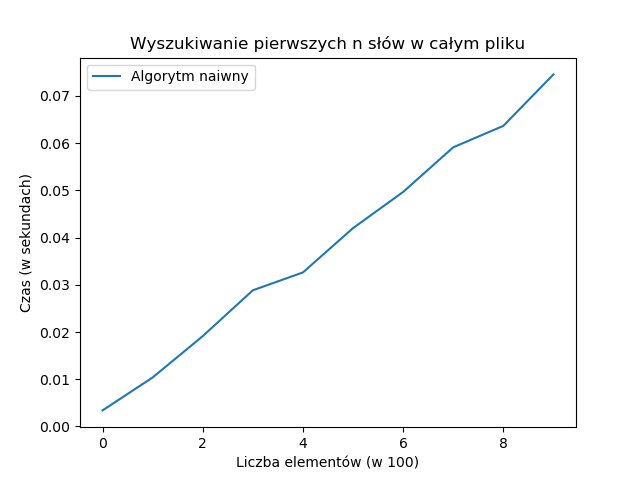
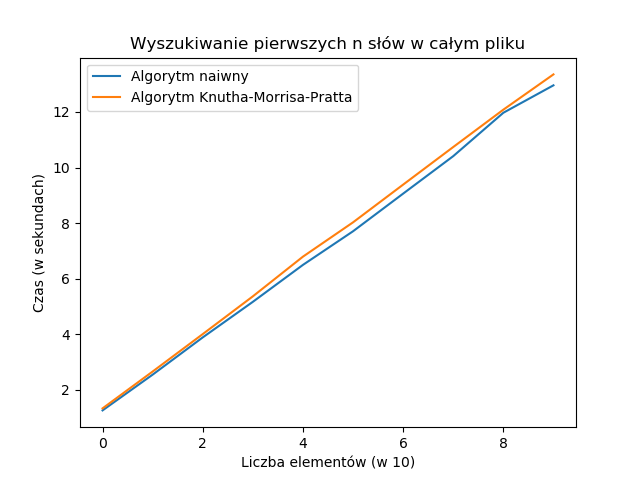
Algorytm KMP, poprawki, testy

diff --git a/Lab4/test_stringSearchKMP.py b/Lab4/test_stringSearchKMP.py
@@ -1,0 +1,95 @@
+import stringSearchKMP
+import stringSearchN
+import random
+
+
+def test_typicalKMP():
+    text = "abcbabc"
+    string = "cba"
+    result = stringSearchKMP.find(string, text)
+    assert(result == [2])
+
+
+def test_multipleMatchesKMP():
+    text = "abcbabc"
+    string = "ab"
+    result = stringSearchKMP.find(string, text)
+    assert(result == [0, 4])
+
+
+def test_emptyStringKMP():
+    text = "abcbabc"
+    string = ""
+    result = stringSearchKMP.find(string, text)
+    assert(result == -1)
+
+
+def test_emptyTextKMP():
+    text = ""
+    string = "cba"
+    result = stringSearchKMP.find(string, text)
+    assert(result == -1)
+
+
+def test_bothEmptyKMP():
+    text = ""
+    string = ""
+    result = stringSearchKMP.find(string, text)
+    assert(result == -1)
+
+
+def test_longerStringKMP():
+    text = "abcbabc"
+    string = "cbaaaaaaaaa"
+    result = stringSearchKMP.find(string, text)
+    assert(result == -1)
+
+
+def test_textIsStringKMP():
+    text = "abcbabc"
+    string = "abcbabc"
+    result = stringSearchKMP.find(string, text)
+    assert(result == [0])
+
+
+def test_notInTextKMP():
+    text = "abcbabc"
+    string = "ddd"
+    result = stringSearchKMP.find(string, text)
+    assert(result == -1)
+
+
+def test_randomKMP1():
+    string = ""
+    text = ""
+    for i in range(10):
+        string += random.choice(['a', 'b'])
+    for i in range(100):
+        text += random.choice(['a', 'b'])
+    expected = stringSearchN.find(string, text)
+    result = stringSearchKMP.find(string, text)
+    assert(result == expected)
+
+
+def test_randomKMP2():
+    string = ""
+    text = ""
+    for i in range(80):
+        string += random.choice(['a', 'b'])
+    for i in range(100):
+        text += random.choice(['a', 'b'])
+    expected = stringSearchN.find(string, text)
+    result = stringSearchKMP.find(string, text)
+    assert(result == expected)
+
+
+def test_randomKMP3():
+    string = ""
+    text = ""
+    for i in range(2):
+        string += random.choice(['a', 'b'])
+    for i in range(100):
+        text += random.choice(['a', 'b'])
+    expected = stringSearchN.find(string, text)
+    result = stringSearchKMP.find(string, text)
+    assert(result == expected)

diff --git a/Lab4/plotting.py b/Lab4/plotting.py
@@ -1,4 +1,5 @@
 import stringSearchN
+import stringSearchKMP
 import time
 import matplotlib.pyplot as plt
 
@@ -23,7 +24,7 @@ def testNaive():
     times = []
     text = readWholeFile('pan-tadeusz.txt')
     for i in range(1, 11):
-        strings = readFirstWords('pan-tadeusz.txt', i * 100)
+        strings = readFirstWords('pan-tadeusz.txt', i * 10)
         start = time.perf_counter()
         for string in strings:
             stringSearchN.find(string, text)
@@ -32,11 +33,26 @@ def testNaive():
     return times
 
 
+def testKMP():
+    times = []
+    text = readWholeFile('pan-tadeusz.txt')
+    for i in range(1, 11):
+        strings = readFirstWords('pan-tadeusz.txt', i * 10)
+        start = time.perf_counter()
+        for string in strings:
+            stringSearchKMP.find(string, text)
+        stop = time.perf_counter()
+        times.append(stop-start)
+    return times
+
+
 if __name__ == "__main__":
     naiveTimes = testNaive()
+    KMPTimes = testKMP()
     plt.plot(naiveTimes)
+    plt.plot(KMPTimes)
     plt.title("Wyszukiwanie pierwszych n słów w całym pliku")
-    plt.xlabel("Liczba elementów (w 100)")
+    plt.xlabel("Liczba elementów (w 10)")
     plt.ylabel("Czas (w sekundach)")
-    plt.legend(["Algorytm naiwny"])
+    plt.legend(["Algorytm naiwny", "Algorytm Knutha-Morrisa-Pratta"])
     plt.savefig("stringPlot.png")

diff --git a/Lab4/stringSearchKMP.py b/Lab4/stringSearchKMP.py
@@ -1,0 +1,44 @@
+def find(string, text):
+    if string == "":
+        return -1
+    if text == "":
+        return -1
+    if len(string) > len(text):
+        return -1
+    results = []
+    longest = [0] * len(string)
+    j = 0
+    makeArray(string, longest)
+    i = 0
+    while i < len(text):
+        if string[j] == text[i]:
+            j += 1
+            i += 1
+        if j == len(string):
+            results.append(i - j)
+            j = longest[j - 1]
+        elif i < len(text) and string[j] != text[i]:
+            if j != 0:
+                j = longest[j - 1]
+            else:
+                i += 1
+    if len(results) == 0:
+        return -1
+    else:
+        return results
+
+
+def makeArray(string, longest):
+    length = 0
+    i = 1
+    while i < len(string):
+        if string[i] == string[length]:
+            length += 1
+            longest[i] = length
+            i += 1
+        else:
+            if length != 0:
+                length = longest[length - 1]
+            else:
+                longest[i] = 0
+                i += 1

diff --git a/Lab4/test_stringSearchN.py b/Lab4/test_stringSearchN.py
@@ -5,7 +5,14 @@ def test_typicalN():
     text = "abcbabc"
     string = "cba"
     result = stringSearchN.find(string, text)
-    assert(result == 2)
+    assert(result == [2])
+
+
+def test_multipleMatchesN():
+    text = "abcbabc"
+    string = "ab"
+    result = stringSearchN.find(string, text)
+    assert(result == [0, 4])
 
 
 def test_emptyStringN():
@@ -40,7 +47,7 @@ def test_textIsStringN():
     text = "abcbabc"
     string = "abcbabc"
     result = stringSearchN.find(string, text)
-    assert(result == 0)
+    assert(result == [0])
 
 
 def test_notInTextN():

diff --git a/Lab4/stringSearchN.py b/Lab4/stringSearchN.py
@@ -7,12 +7,19 @@ def find(string, text):
         return -1
     i = 0
     j = 0
+    results = []
     while i < len(text):
+        j = 0
         while j < len(string):
+            if i + j >= len(text):
+                break
             if text[i + j] != string[j]:
                 break
             if j == len(string) - 1 and text[i + j] == string[j]:
-                return i
+                results.append(i)
             j += 1
         i += 1
-    return -1
+    if len(results) == 0:
+        return -1
+    else:
+        return results
